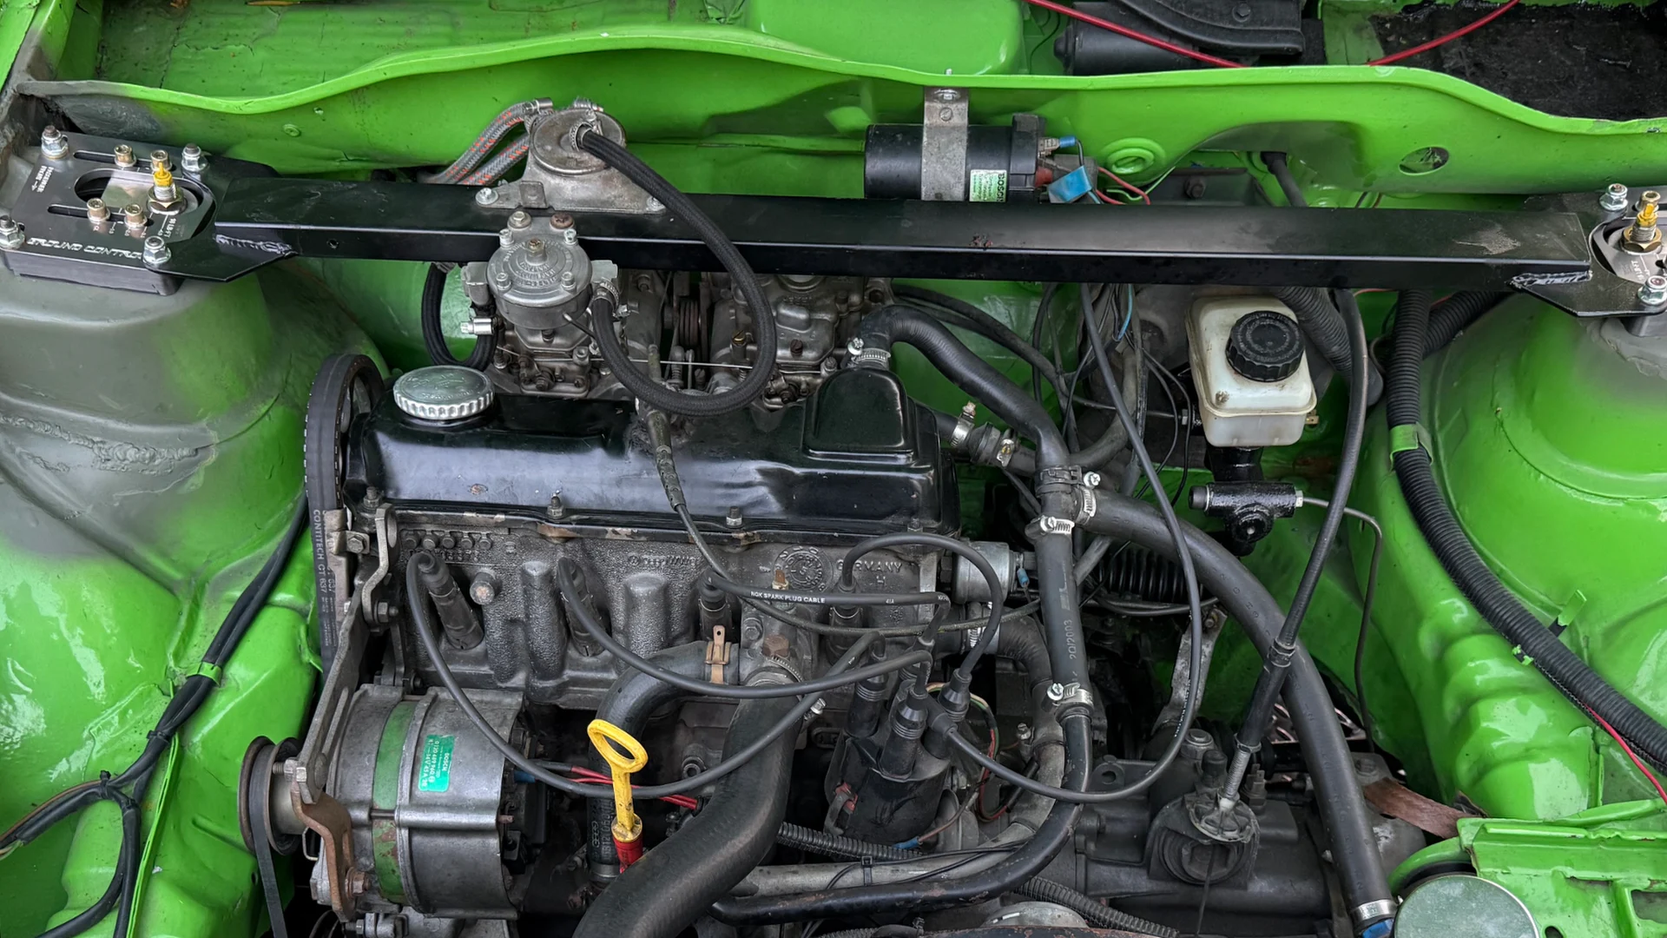
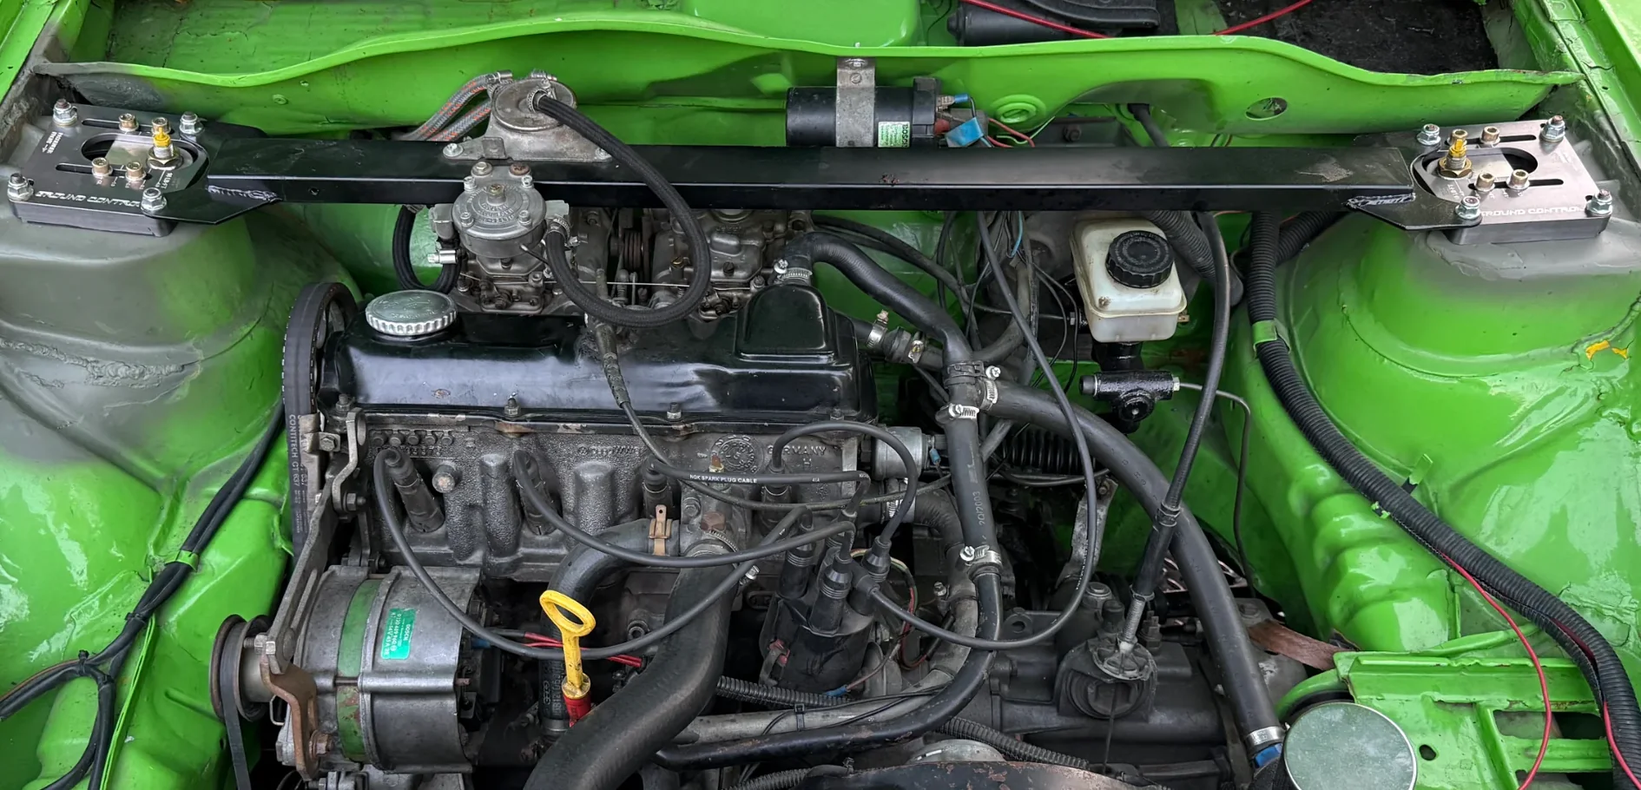
Ground Control slider: wider, aligned engine bay photos
Back to the full-width shots (both strut towers in frame) from ca1386e,
with the before photo aligned to the after photo on landmarks so the
strut brace meets at the divider. Fully AFTER shows both camber/caster
plates; fully BEFORE shows both stock mounts. Towers centered evenly;
slider frame is now 1890:910.

Claude-Session: https://claude.ai/code/session_01KV7hbFaLxJJxQUL4poAyHM

diff --git a/ground-control.html b/ground-control.html
@@ -1,5 +1,5 @@
 <!doctype html><html lang="en"><head><meta charset="utf-8"><meta name="viewport" content="width=device-width,initial-scale=1"><title>Built for the Climb | Ground Control × 799 Motorsport</title><meta name="description" content="Inside the custom Ground Control suspension build on the 799 Motorsport Volkswagen Scirocco, from strut tower preparation to Empire Hill Climb and Grattan testing."><link rel="stylesheet" href="/mobile-nav.css?v=1"><script src="/mobile-nav.js?v=1" defer></script><style>
-:root{--green:#20c933;--paper:#f2f2ef}*{box-sizing:border-box}html{scroll-behavior:smooth}body{margin:0;background:#080a08;color:#fff;font-family:Arial,Helvetica,sans-serif}a{color:inherit}.wrap{width:min(1180px,calc(100% - 40px));margin:auto}nav{padding:26px 0;border-bottom:1px solid #343a33}.nav{display:flex;align-items:center;justify-content:space-between;gap:14px}.brand{white-space:nowrap}.links{align-items:center}.links a:hover,.links a:focus-visible{color:#20c933}.brand{text-decoration:none;font-size:18px;font-weight:900;letter-spacing:.09em}.brand span{color:var(--green)}.links{display:flex;gap:24px}.links a{font-size:11px;font-weight:900;text-decoration:none;letter-spacing:.1em;text-transform:uppercase}.eyebrow{color:var(--green);font-size:11px;font-weight:900;letter-spacing:.22em;text-transform:uppercase}h1,h2,h3{font-weight:900;text-transform:uppercase;letter-spacing:-.045em}h1{font-size:clamp(60px,10vw,140px);line-height:.86;margin:25px 0}h2{font-size:clamp(42px,6vw,80px);line-height:.94;margin:15px 0 30px}h3{font-size:26px;margin:0 0 14px}p{color:#c7cec7;font-size:17px;line-height:1.75}.lead{font-size:clamp(20px,2.5vw,28px);line-height:1.45;color:#fff}.hero{padding:105px 0 85px;position:relative;overflow:hidden;min-height:690px;display:flex;align-items:center;background-image:linear-gradient(90deg,rgba(5,5,5,.95) 0%,rgba(5,5,5,.78) 38%,rgba(5,5,5,.29) 72%,rgba(5,5,5,.14) 100%),url("/images/ground-control/empire-hero.webp");background-position:center,center 80%;background-size:cover;background-repeat:no-repeat;background-color:#0b0e0b}.hero .intro{max-width:900px}.hero h1 em{font-style:normal;color:var(--green)}.hero-tags{display:flex;flex-wrap:wrap;gap:10px;margin-top:35px}.hero-tags span{padding:11px 15px;border:1px solid #465046;font-size:10px;font-weight:900;letter-spacing:.13em;text-transform:uppercase}.feature{padding:90px 0}.split{display:grid;grid-template-columns:.85fr 1.15fr;gap:65px;align-items:start}.white{background:var(--paper);color:#111}.white p{color:#343b34}.photo{display:block;width:100%;aspect-ratio:16/9;object-fit:cover;background:#202720}.caption{font-size:12px;color:#879087;margin-top:12px}.white .caption{color:#666}.photo-frame{margin:0}.gallery{display:grid;grid-template-columns:1fr 1fr;gap:16px;margin-top:38px}.gallery figure{margin:0}.gallery img{width:100%;aspect-ratio:16/9;object-fit:cover;background:#1c211c}.gallery figcaption{padding:12px 0;color:#aab3aa;font-size:13px}.compare-section{padding:100px 0;background:#101710}.compare{position:relative;width:100%;aspect-ratio:16/9;overflow:hidden;border:1px solid #506150;touch-action:pan-y;user-select:none;background:#1d251d;cursor:ew-resize}.compare img{position:absolute;inset:0;width:100%;height:100%;object-fit:cover;pointer-events:none}.compare img.after{clip-path:inset(0 50% 0 0)}.compare .divider{position:absolute;top:0;bottom:0;left:50%;width:3px;background:#fff;transform:translateX(-50%);pointer-events:none;box-shadow:0 0 0 1px #0006}.compare .handle{position:absolute;left:50%;top:50%;transform:translate(-50%,-50%);height:56px;width:56px;border-radius:50%;border:3px solid white;background:#111b13;color:#fff;display:grid;place-items:center;font-weight:900;font-size:20px;pointer-events:none}.compare .tag{position:absolute;z-index:2;top:20px;padding:10px 14px;background:#08140cdd;font-size:11px;font-weight:900;letter-spacing:.13em;white-space:nowrap;pointer-events:none}.compare .tag.before{right:20px}.compare .tag.after{left:20px}.compare input{position:absolute;inset:0;width:100%;height:100%;opacity:0;cursor:ew-resize;z-index:5;margin:0;touch-action:none}.compare-note{text-align:center;color:#a8bca9;font-size:13px}.specs{display:grid;grid-template-columns:repeat(3,minmax(0,1fr));gap:1px;background:#333;border:1px solid #333;margin-top:45px}.spec{display:flex;flex-direction:column;align-items:flex-start;min-width:0;min-height:210px;padding:27px 29px 30px;background:#101010;color:#fff}.spec:nth-child(even){background:#fff;color:#101010}.spec .spec-kicker{font-size:10px;font-weight:900;letter-spacing:.17em;text-transform:uppercase;opacity:.65;margin-bottom:12px}.spec strong{display:block;font-size:clamp(23px,2.5vw,31px);line-height:1.08;letter-spacing:-.025em}.spec .spec-name{display:block;margin-top:14px;font-size:14px;font-weight:800;line-height:1.4}.spec .spec-detail{display:block;margin-top:8px;font-size:12px;line-height:1.55;color:#bbb}.spec:nth-child(even) .spec-detail{color:#555}.race-week-note{max-width:920px;margin:33px 0 34px;padding-left:21px;border-left:3px solid var(--green);font-size:17px;line-height:1.75;color:#d0d7d0}.race-week-note strong{color:#fff}.steps{display:grid;grid-template-columns:repeat(3,1fr);gap:15px;margin-top:45px}.step{padding:30px;border:1px solid #4a524a;background:#121812}.step .num{font-size:42px;font-weight:900;color:var(--green)}.step p{font-size:15px}.timeline{display:grid;grid-template-columns:1fr 1fr;gap:15px;margin-top:45px}.event{padding:35px;background:#151b15;border-top:3px solid var(--green)}.event small{color:var(--green);font-weight:900;letter-spacing:.15em}.event h3{margin-top:20px}.end{padding:100px 0;background:var(--green);color:#081208}.end h2{max-width:950px}.end p{color:#102b13;max-width:800px}.btn{display:inline-block;margin-top:20px;background:#101510;color:white;text-decoration:none;font-size:12px;font-weight:900;letter-spacing:.14em;padding:18px 24px;text-transform:uppercase}footer{padding:35px 0;color:#9da69d;font-size:12px}.footer{display:flex;justify-content:space-between;gap:20px}.image-missing{background:#162016}.template{max-width:100%;height:auto;background:white;padding:10px}@media(max-width:760px){.links{display:none}.hero{padding:70px 0;min-height:640px;background-image:linear-gradient(180deg,rgba(5,5,5,.70) 0%,rgba(5,5,5,.72) 45%,rgba(5,5,5,.95) 100%),url("/images/ground-control/empire-hero.webp");background-position:center,66% center}.split,.steps,.timeline,.specs,.gallery{grid-template-columns:1fr}.feature,.compare-section,.end{padding:65px 0}.hero h1{font-size:clamp(56px,15vw,85px)}.footer{flex-direction:column}.compare .handle{width:42px;height:42px}.compare .tag{font-size:9px;top:8px;padding:7px}.compare{aspect-ratio:16/9}} @media(max-width:760px){.spec{min-height:0;padding:25px 24px 27px}.spec strong{font-size:27px}.race-week-note{margin:25px 0 30px;font-size:16px}}@media(max-width:380px){.nav{gap:8px}.brand{font-size:15px}}@media(max-width:760px){.gallery img{height:auto;aspect-ratio:auto;object-fit:contain}.wrap{width:calc(100% - 32px)}.compare-note{font-size:11px}.hero h1{overflow-wrap:normal}}
+:root{--green:#20c933;--paper:#f2f2ef}*{box-sizing:border-box}html{scroll-behavior:smooth}body{margin:0;background:#080a08;color:#fff;font-family:Arial,Helvetica,sans-serif}a{color:inherit}.wrap{width:min(1180px,calc(100% - 40px));margin:auto}nav{padding:26px 0;border-bottom:1px solid #343a33}.nav{display:flex;align-items:center;justify-content:space-between;gap:14px}.brand{white-space:nowrap}.links{align-items:center}.links a:hover,.links a:focus-visible{color:#20c933}.brand{text-decoration:none;font-size:18px;font-weight:900;letter-spacing:.09em}.brand span{color:var(--green)}.links{display:flex;gap:24px}.links a{font-size:11px;font-weight:900;text-decoration:none;letter-spacing:.1em;text-transform:uppercase}.eyebrow{color:var(--green);font-size:11px;font-weight:900;letter-spacing:.22em;text-transform:uppercase}h1,h2,h3{font-weight:900;text-transform:uppercase;letter-spacing:-.045em}h1{font-size:clamp(60px,10vw,140px);line-height:.86;margin:25px 0}h2{font-size:clamp(42px,6vw,80px);line-height:.94;margin:15px 0 30px}h3{font-size:26px;margin:0 0 14px}p{color:#c7cec7;font-size:17px;line-height:1.75}.lead{font-size:clamp(20px,2.5vw,28px);line-height:1.45;color:#fff}.hero{padding:105px 0 85px;position:relative;overflow:hidden;min-height:690px;display:flex;align-items:center;background-image:linear-gradient(90deg,rgba(5,5,5,.95) 0%,rgba(5,5,5,.78) 38%,rgba(5,5,5,.29) 72%,rgba(5,5,5,.14) 100%),url("/images/ground-control/empire-hero.webp");background-position:center,center 80%;background-size:cover;background-repeat:no-repeat;background-color:#0b0e0b}.hero .intro{max-width:900px}.hero h1 em{font-style:normal;color:var(--green)}.hero-tags{display:flex;flex-wrap:wrap;gap:10px;margin-top:35px}.hero-tags span{padding:11px 15px;border:1px solid #465046;font-size:10px;font-weight:900;letter-spacing:.13em;text-transform:uppercase}.feature{padding:90px 0}.split{display:grid;grid-template-columns:.85fr 1.15fr;gap:65px;align-items:start}.white{background:var(--paper);color:#111}.white p{color:#343b34}.photo{display:block;width:100%;aspect-ratio:16/9;object-fit:cover;background:#202720}.caption{font-size:12px;color:#879087;margin-top:12px}.white .caption{color:#666}.photo-frame{margin:0}.gallery{display:grid;grid-template-columns:1fr 1fr;gap:16px;margin-top:38px}.gallery figure{margin:0}.gallery img{width:100%;aspect-ratio:16/9;object-fit:cover;background:#1c211c}.gallery figcaption{padding:12px 0;color:#aab3aa;font-size:13px}.compare-section{padding:100px 0;background:#101710}.compare{position:relative;width:100%;aspect-ratio:1890/910;overflow:hidden;border:1px solid #506150;touch-action:pan-y;user-select:none;background:#1d251d;cursor:ew-resize}.compare img{position:absolute;inset:0;width:100%;height:100%;object-fit:cover;pointer-events:none}.compare img.after{clip-path:inset(0 50% 0 0)}.compare .divider{position:absolute;top:0;bottom:0;left:50%;width:3px;background:#fff;transform:translateX(-50%);pointer-events:none;box-shadow:0 0 0 1px #0006}.compare .handle{position:absolute;left:50%;top:50%;transform:translate(-50%,-50%);height:56px;width:56px;border-radius:50%;border:3px solid white;background:#111b13;color:#fff;display:grid;place-items:center;font-weight:900;font-size:20px;pointer-events:none}.compare .tag{position:absolute;z-index:2;top:20px;padding:10px 14px;background:#08140cdd;font-size:11px;font-weight:900;letter-spacing:.13em;white-space:nowrap;pointer-events:none}.compare .tag.before{right:20px}.compare .tag.after{left:20px}.compare input{position:absolute;inset:0;width:100%;height:100%;opacity:0;cursor:ew-resize;z-index:5;margin:0;touch-action:none}.compare-note{text-align:center;color:#a8bca9;font-size:13px}.specs{display:grid;grid-template-columns:repeat(3,minmax(0,1fr));gap:1px;background:#333;border:1px solid #333;margin-top:45px}.spec{display:flex;flex-direction:column;align-items:flex-start;min-width:0;min-height:210px;padding:27px 29px 30px;background:#101010;color:#fff}.spec:nth-child(even){background:#fff;color:#101010}.spec .spec-kicker{font-size:10px;font-weight:900;letter-spacing:.17em;text-transform:uppercase;opacity:.65;margin-bottom:12px}.spec strong{display:block;font-size:clamp(23px,2.5vw,31px);line-height:1.08;letter-spacing:-.025em}.spec .spec-name{display:block;margin-top:14px;font-size:14px;font-weight:800;line-height:1.4}.spec .spec-detail{display:block;margin-top:8px;font-size:12px;line-height:1.55;color:#bbb}.spec:nth-child(even) .spec-detail{color:#555}.race-week-note{max-width:920px;margin:33px 0 34px;padding-left:21px;border-left:3px solid var(--green);font-size:17px;line-height:1.75;color:#d0d7d0}.race-week-note strong{color:#fff}.steps{display:grid;grid-template-columns:repeat(3,1fr);gap:15px;margin-top:45px}.step{padding:30px;border:1px solid #4a524a;background:#121812}.step .num{font-size:42px;font-weight:900;color:var(--green)}.step p{font-size:15px}.timeline{display:grid;grid-template-columns:1fr 1fr;gap:15px;margin-top:45px}.event{padding:35px;background:#151b15;border-top:3px solid var(--green)}.event small{color:var(--green);font-weight:900;letter-spacing:.15em}.event h3{margin-top:20px}.end{padding:100px 0;background:var(--green);color:#081208}.end h2{max-width:950px}.end p{color:#102b13;max-width:800px}.btn{display:inline-block;margin-top:20px;background:#101510;color:white;text-decoration:none;font-size:12px;font-weight:900;letter-spacing:.14em;padding:18px 24px;text-transform:uppercase}footer{padding:35px 0;color:#9da69d;font-size:12px}.footer{display:flex;justify-content:space-between;gap:20px}.image-missing{background:#162016}.template{max-width:100%;height:auto;background:white;padding:10px}@media(max-width:760px){.links{display:none}.hero{padding:70px 0;min-height:640px;background-image:linear-gradient(180deg,rgba(5,5,5,.70) 0%,rgba(5,5,5,.72) 45%,rgba(5,5,5,.95) 100%),url("/images/ground-control/empire-hero.webp");background-position:center,66% center}.split,.steps,.timeline,.specs,.gallery{grid-template-columns:1fr}.feature,.compare-section,.end{padding:65px 0}.hero h1{font-size:clamp(56px,15vw,85px)}.footer{flex-direction:column}.compare .handle{width:42px;height:42px}.compare .tag{font-size:9px;top:8px;padding:7px}.compare{aspect-ratio:1890/910}} @media(max-width:760px){.spec{min-height:0;padding:25px 24px 27px}.spec strong{font-size:27px}.race-week-note{margin:25px 0 30px;font-size:16px}}@media(max-width:380px){.nav{gap:8px}.brand{font-size:15px}}@media(max-width:760px){.gallery img{height:auto;aspect-ratio:auto;object-fit:contain}.wrap{width:calc(100% - 32px)}.compare-note{font-size:11px}.hero h1{overflow-wrap:normal}}
 /* Partner identity: monochrome at rest, original sponsor colors on hover/focus. */
 .gc-logo-link{display:inline-flex;flex-direction:column;gap:13px;max-width:min(410px,100%);margin-top:34px;text-decoration:none}
 .gc-logo-image{display:block;padding:13px 16px;background:#fff;border:1px solid #dedede;transition:border-color .22s,box-shadow .22s,transform .22s}
@@ -76,7 +76,7 @@ nav{padding:28px 0;border-bottom:1px solid #292929}
 <header class="hero"><div class="wrap"><div class="eyebrow">Partners / Partner Build Story</div><div class="intro"><h1>BUILT FOR<br><em>THE CLIMB.</em></h1><p class="lead">On a lightweight MK1 Scirocco, confidence through the next corner matters more than a dramatic stance. Ground Control brought serious suspension hardware to 799. The rest is a story written on the hill.</p></div><div class="hero-tags"><span>1976 VW Scirocco</span><span>Ground Control Suspension Systems</span><span>Hill Climb / Time Trial / Track Sprint</span></div></div></header>
 <section class="feature white"><div class="wrap split"><div><div class="eyebrow">01 / The Build</div><h2>MORE THAN<br>LOWER.</h2><p>This build was never about lowering a car for the sake of it. It was about giving 799 a more dependable platform under braking, through quick transitions and over the unpredictable surfaces of a hill climb. Ground Control's MK1 VW setup brings KONI dampers, coilovers and adjustable camber/caster plates into the mix.</p><p>The 799 racing green springs make an entrance. Up close, the black housings and pewter-finish hardware tell the more interesting story: purpose-built pieces designed to be adjusted, tested and used.</p></div><figure class="photo-frame"><img class="photo" src="/images/ground-control/bench1.webp" alt="Custom green Ground Control coilovers and camber plates laid out before installation" loading="lazy"><figcaption class="caption">Fresh from Ground Control: a suspension package made for this little green car.</figcaption></figure></div><div class="wrap specs" aria-label="Ground Control suspension specifications"><div class="spec"><span class="spec-kicker">Ground Control / Spring</span><strong>430 LB/IN</strong><span class="spec-name">7-inch main coil springs</span><span class="spec-detail">2.5-inch inside diameter, with custom 799 racing green powder coating.</span></div><div class="spec"><span class="spec-kicker">Ground Control / Spring</span><strong>325 LB/IN</strong><span class="spec-name">8-inch main coil springs</span><span class="spec-detail">2.5-inch inside diameter, paired with helper springs for the coilover setup.</span></div><div class="spec"><span class="spec-kicker">Damping &amp; Adjustment</span><strong>KONI + GC</strong><span class="spec-name">KONI Sport front dampers. KONI Race Series rear shocks.</span><span class="spec-detail">Hybrid camber/caster plates, helper springs and firm bump stops round out the package.</span></div></div></section>
 <section class="feature"><div class="wrap"><div class="eyebrow">02 / Making It Fit</div><h2>BUILT, NOT<br>BOLTED ON.</h2><p class="lead" style="max-width:850px">A fifty-year-old Volkswagen wasn't designed around today's race hardware. Getting the new plates into the MK1 strut towers took careful fitting, a little metalwork and the willingness to make the car better rather than simply keep it original.</p><div class="steps"><div class="step"><div class="num">01</div><h3>Start with the details</h3><p>Ground Control's VW race template provided the reference for the tower work. Getting the foundation right mattered as much as the shiny new parts.</p></div><div class="step"><div class="num">02</div><h3>Make room to work</h3><p>The towers needed clearance for the adjustable plates. It was the kind of behind-the-scenes fabrication you never notice once the wheels are back on.</p></div><div class="step"><div class="num">03</div><h3>Find the baseline</h3><p>With the hardware installed, the real work shifted to ride height, alignment and damping. No magic setting, just a better place to start learning.</p></div></div><p class="race-week-note"><strong>One week to Empire.</strong> The gray primer on the strut towers tells the story. This was a last-minute build, and we had roughly a week to get 799 ready for Empire Hill Climb. The cutting, fitting and setup came first. There simply wasn't time for paint before race day.</p><div class="gallery"><figure><img src="/images/ground-control/engine-before.webp" alt="Original Scirocco engine bay before fitting Ground Control camber caster plates" loading="lazy"><figcaption>The original mounting arrangement before the build.</figcaption></figure><figure><img src="/images/ground-control/coil1.webp" alt="Installed Ground Control green-spring coilover in Scirocco wheel well" loading="lazy"><figcaption>Ground Control coilover fitted and ready to run.</figcaption></figure><figure><img src="/images/ground-control/bench2.webp" alt="Detail of Ground Control hybrid camber caster plate" loading="lazy"><figcaption>The details: adjustment, machining and race-ready hardware.</figcaption></figure><figure><img src="/images/ground-control/after.webp" alt="Ground Control adjustable camber caster plate installed on the Scirocco strut tower" loading="lazy"><figcaption>Installed and at home in the MK1 strut tower.</figcaption></figure></div><p class="caption">From stock mounts to the finished hardware. Select any photo to see it in full.</p></div></section>
-<section class="compare-section"><div class="wrap"><div class="compare-heading"><div class="compare-heading-copy"><div class="eyebrow">03 / The Reveal</div><h2>BEFORE.<br>AFTER.</h2><p>Drag the slider to compare the Scirocco engine bay before and after the Ground Control camber/caster plate installation.</p></div><a class="gc-logo-link" href="https://groundcontrolstore.com/collections/mk1" target="_blank" rel="noopener noreferrer" aria-label="Explore Ground Control MK1 Volkswagen suspension components"><span class="gc-logo-image"><img src="/images/ground-control/ground-control-logo.png" width="1400" height="454" alt="Ground Control Suspension Systems" loading="lazy"></span><span class="gc-logo-label">EXPLORE GROUND CONTROL<small>MK1 VOLKSWAGEN SUSPENSION</small></span></a></div><div class="compare" id="compare"><img src="/images/ground-control/compare-before.webp" alt="Full Scirocco engine bay before installing the Ground Control camber and caster plates"><img class="after" id="afterImage" src="/images/ground-control/compare-after.webp" alt="Full Scirocco engine bay after installing the Ground Control camber and caster plates"><div class="divider" id="compareLine"></div><div class="handle" id="compareHandle">↔</div><span class="tag after">AFTER</span><span class="tag before">BEFORE</span><input type="range" min="0" max="100" value="50" aria-label="Compare full engine bay before and after Ground Control suspension installation" id="reveal"></div><p class="compare-note">← DRAG TO REVEAL →</p></div></section>
+<section class="compare-section"><div class="wrap"><div class="compare-heading"><div class="compare-heading-copy"><div class="eyebrow">03 / The Reveal</div><h2>BEFORE.<br>AFTER.</h2><p>Drag the slider to compare the Scirocco engine bay before and after the Ground Control camber/caster plate installation.</p></div><a class="gc-logo-link" href="https://groundcontrolstore.com/collections/mk1" target="_blank" rel="noopener noreferrer" aria-label="Explore Ground Control MK1 Volkswagen suspension components"><span class="gc-logo-image"><img src="/images/ground-control/ground-control-logo.png" width="1400" height="454" alt="Ground Control Suspension Systems" loading="lazy"></span><span class="gc-logo-label">EXPLORE GROUND CONTROL<small>MK1 VOLKSWAGEN SUSPENSION</small></span></a></div><div class="compare" id="compare"><img src="/images/ground-control/compare-before.webp?v=2" alt="Full Scirocco engine bay before installing the Ground Control camber and caster plates"><img class="after" id="afterImage" src="/images/ground-control/compare-after.webp?v=2" alt="Full Scirocco engine bay after installing the Ground Control camber and caster plates"><div class="divider" id="compareLine"></div><div class="handle" id="compareHandle">↔</div><span class="tag after">AFTER</span><span class="tag before">BEFORE</span><input type="range" min="0" max="100" value="50" aria-label="Compare full engine bay before and after Ground Control suspension installation" id="reveal"></div><p class="compare-note">← DRAG TO REVEAL →</p></div></section>
 <section class="feature white"><div class="wrap split"><div><div class="eyebrow">04 / Ride Height & Stance</div><h2>THE CAR<br>ON THE ROAD.</h2><p>The payoff is easier to see at speed. The Scirocco still looks unmistakably MK1, but now there's a more serious foundation underneath it.</p><p>Ride height is only the beginning. Alignment, damping and balance are a moving target, adjusted a little at a time as the car meets new roads.</p></div><figure class="photo-frame"><img class="photo" src="/images/ground-control/ride-height.webp" alt="799 Scirocco at speed showing ride height after suspension installation" loading="lazy"><figcaption class="caption">799 in its element, putting the new setup to work.</figcaption></figure></div></section>
 <section class="feature" style="background:#0d120e"><div class="wrap"><div class="eyebrow">05 / On Track at Grattan</div><h2 class="motion-heading">THE SETUP<br><span class="motion-word">IN MOTION.</span></h2><p class="lead" style="max-width:880px">Static photos tell part of the story. At Grattan Raceway, the 799 Scirocco puts its suspension setup to work through corners, braking zones and transitions. Every run provides another opportunity to refine the balance ahead of the 2027 season.</p><div style="position:relative;aspect-ratio:16/9;width:100%;overflow:hidden;background:#000;margin-top:32px"><iframe src="https://www.youtube-nocookie.com/embed/n9XiD3WHWz0" title="799 Motorsport Scirocco at Grattan Raceway" loading="lazy" allow="accelerometer;autoplay;clipboard-write;encrypted-media;gyroscope;picture-in-picture;web-share" referrerpolicy="strict-origin-when-cross-origin" allowfullscreen style="position:absolute;inset:0;width:100%;height:100%;border:0"></iframe></div><p class="caption">799 Motorsport at Grattan Raceway, October 2026.</p></div></section>
 <section class="feature"><div class="wrap"><div class="eyebrow">06 / Track Development</div><h2>THE FIRST TEST<br>WAS A RACE.</h2><p class="lead" style="max-width:900px">There's no better way to learn about a new setup than to race it. Empire was the first real test. Grattan added another chapter.</p><div class="timeline"><article class="event"><small>SEPTEMBER 2026</small><h3><a class="event-link" href="/photos/empire-2026/">Empire Hill Climb</a></h3><p>First event on the new suspension, straight into the deep end: changing grip, elevation and no room for excuses. The result was P3 in Class #1 at 24.147, with plenty still to learn about the setup.</p></article><article class="event"><small>OCTOBER 2026</small><h3><a class="event-link" href="/photos/grattan-2026/">Grattan Raceway</a></h3><p>Another course, another chance to try a different damping setting and feel the difference. The result was P3 in SMF at 92.415. That's how the car gets quicker: one useful adjustment at a time.</p></article></div></div></section>
